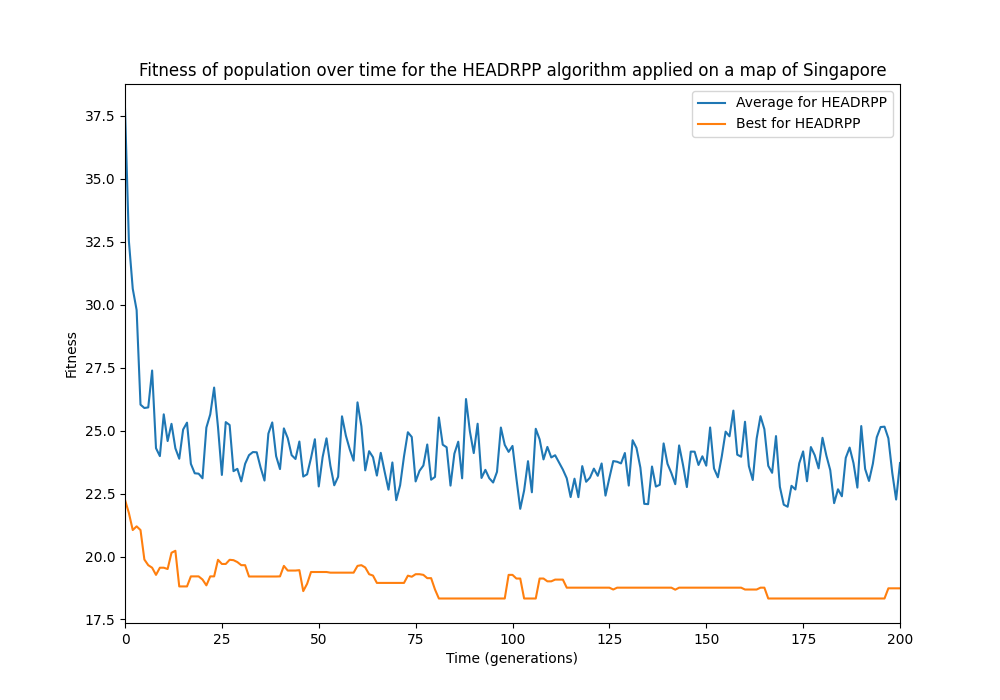
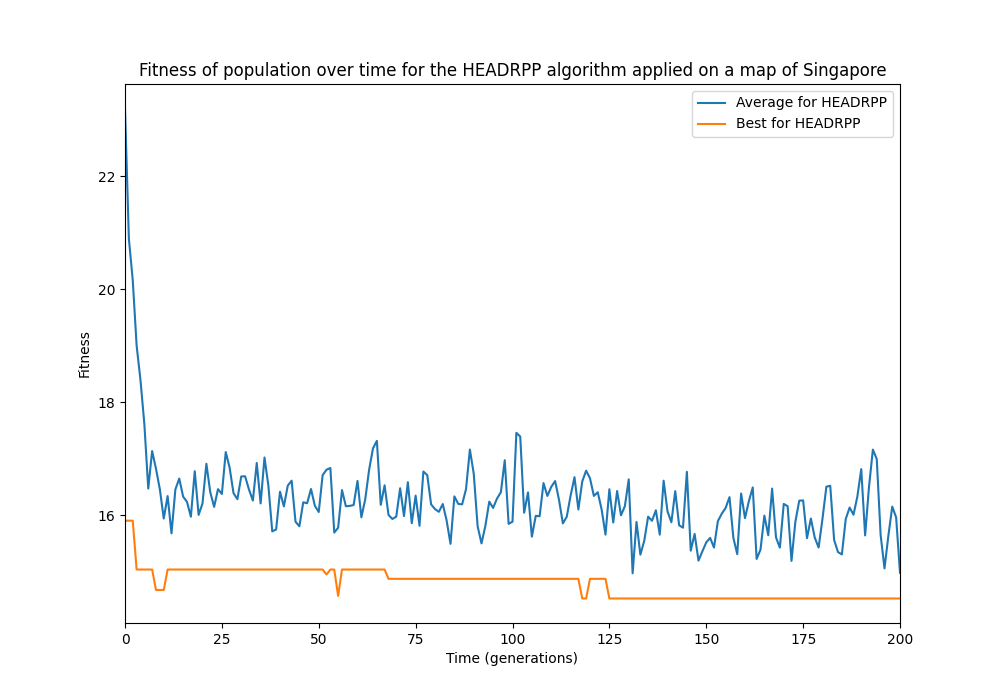
Add requirements

diff --git a/scripts/headrpp_alg.py b/scripts/headrpp_alg.py
@@ -14,6 +14,15 @@ class HEADRPP:
         self.end_node = end_node
         self.population_size = population_size
         self.weights = weights
+        self.max_distance = max(
+            [
+                math.dist(node1.coordinates, node2.coordinates)
+                for node1 in self.repr.nodes.values()
+                for node2 in self.repr.nodes.values()
+            ]
+        )
+        self.max_traffic = max([node.traffic for node in self.repr.nodes.values()])
+        self.max_pollution = max([node.pollution for node in self.repr.nodes.values()])
 
     def generate_route(self, start_node=None, old_route=[]):
         route = [start_node] if start_node else [self.start_node]
@@ -62,9 +71,12 @@ class HEADRPP:
             max(pollution),
         )
 
-        normalized_distance = (total_distance - min_distance) / max_distance
-        normalized_traffic = (total_traffic - min_traffic) / max_traffic
-        normalized_pollution = (total_pollution - min_pollution) / max_pollution
+        # normalized_distance = (total_distance - min_distance) / max_distance
+        normalized_distance = total_distance / self.max_distance
+        # normalized_traffic = (total_traffic - min_traffic) / max_traffic
+        normalized_traffic = total_traffic / self.max_traffic
+        # normalized_pollution = (total_pollution - min_pollution) / max_pollution
+        normalized_pollution = total_pollution / self.max_pollution
 
         fitness = (
             self.weights[0] * normalized_distance
